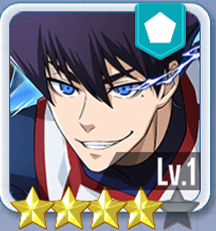
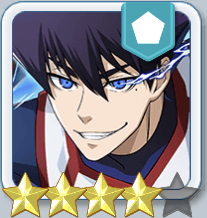
feat: 雪宮剣優【一瞬に見出す極限】の追加

diff --git a/src/data/matchSkills.js b/src/data/matchSkills.js
@@ -14223,4 +14223,116 @@ export const matchSkills = [
   "activator4": null,
   "activator5": null
 },
+{
+  "name": "超次元共演",
+  "detail": "自身がゴールを決めるとしばらくの間、味方全体のパフォーマンスが少し上昇する。（発動上限数：1回）",
+  "target1": "B033-03",
+  "target2": "B030-03",
+  "target3": null,
+  "target4": null,
+  "target5": null,
+  "activator1": "B033-03",
+  "activator2": null,
+  "activator3": null,
+  "activator4": null,
+  "activator5": null
+},
+{
+  "name": "キミ 可愛くないね",
+  "detail": "スキル発動した際の突破時からしばらくの間、マッチアップ相手のスピードが大幅に下がり、自身のクロス実行率が大幅に上昇する。（発動上限数：2回）",
+  "target1": "B033-03",
+  "target2": "B013-06",
+  "target3": null,
+  "target4": null,
+  "target5": null,
+  "activator1": "B033-03",
+  "activator2": null,
+  "activator3": null,
+  "activator4": null,
+  "activator5": null
+},
+{
+  "name": "いっくよエブリバディ",
+  "detail": "スキル発動時、しばらくの間、味方全体の突破成功率が大幅に上昇し、相手チームの突破成功率が大幅に下がる。（発動上限数：2回）",
+  "target1": "B033-03",
+  "target2": "B036-02",
+  "target3": null,
+  "target4": null,
+  "target5": null,
+  "activator1": "B033-03",
+  "activator2": null,
+  "activator3": null,
+  "activator4": null,
+  "activator5": null
+},
+{
+  "name": "恩に着る",
+  "detail": "スキル発動した際の突破時からしばらくの間、自身のスピードとシュートレンジが大幅に上昇し、相手チームで一番賢さの高い選手のシュートブロック成功率が大幅に下がる。（発動上限数：1回）",
+  "target1": "B033-03",
+  "target2": "B032-04",
+  "target3": null,
+  "target4": null,
+  "target5": null,
+  "activator1": "B033-03",
+  "activator2": null,
+  "activator3": null,
+  "activator4": null,
+  "activator5": null
+},
+{
+  "name": "理解っとるやんボケ",
+  "detail": "スキル発動時、少しの間、自身のクロス実行率が大幅に上昇し、相手チームのシュートブロック成功率が大幅に下がる。（発動上限数：2回）",
+  "target1": "B030-03",
+  "target2": "B013-06",
+  "target3": "B033-03",
+  "target4": null,
+  "target5": null,
+  "activator1": "B030-03",
+  "activator2": null,
+  "activator3": null,
+  "activator4": null,
+  "activator5": null
+},
+{
+  "name": "未曽有の計画",
+  "detail": "スキル発動時から一定時間、相手チームのシュートブロック成功率が大幅に下がり、マッチアップにおいて実力を発揮しづらくなる。（発動上限数：2回）",
+  "target1": "B013-06",
+  "target2": "B032-04",
+  "target3": "B033-03",
+  "target4": null,
+  "target5": null,
+  "activator1": "B013-06",
+  "activator2": null,
+  "activator3": null,
+  "activator4": null,
+  "activator5": null
+},
+{
+  "name": "さぁ終わりだぜ",
+  "detail": "スキル発動した際のシュートからしばらくの間、自身と自チーム内で一番キックが高い選手のシュート成功率が上昇する。さらに、試合中、自身のシュートブロック成功率が上昇する。（発動上限数：2回）",
+  "target1": "B036-02",
+  "target2": "B030-03",
+  "target3": "B033-03",
+  "target4": null,
+  "target5": null,
+  "activator1": "B036-02",
+  "activator2": null,
+  "activator3": null,
+  "activator4": null,
+  "activator5": null
+},
+{
+  "name": "そんな畏まらんでええよ",
+  "detail": "試合開始時から一定時間、味方全体のパスカット成功時にボールを奪取する確率が大幅に上昇し、マッチアップにおいて実力を発揮しやすくなる。（発動上限数：1回）",
+  "target1": "B032-04",
+  "target2": "B033-03",
+  "target3": "B036-02",
+  "target4": null,
+  "target5": null,
+  "activator1": "B032-04",
+  "activator2": null,
+  "activator3": null,
+  "activator4": null,
+  "activator5": null
+},
 ];

diff --git a/src/data/trainingSkills.js b/src/data/trainingSkills.js
@@ -139,6 +139,12 @@ const SOURCE_ROWS = [
 { "発動対象1_ID": "SP-UR004", "発動対象1_名前": "脳天カチ割るぞ", "発動対象2_ID": "SP-UR018", "発動対象2_名前": "本とメガネとエゴイスト", "効果1": "常時フィジカルアップ", "効果量1": "2000%" },
 { "発動対象1_ID": "B003-07", "発動対象1_名前": "國神錬介【正々堂々肉体勝負】", "発動対象2_ID": "SP-UR018", "発動対象2_名前": "本とメガネとエゴイスト", "効果1": "常時フィジカルアップ", "効果量1": "2000%" },
 { "発動対象1_ID": "B036-02", "発動対象1_名前": "オリヴァ・愛空【オールMAXで視える世界】", "発動対象2_ID": "SP-UR018", "発動対象2_名前": "本とメガネとエゴイスト", "効果1": "常時フィジカルアップ", "効果量1": "2000%" },
+{ "発動対象1_ID": "B038-02", "発動対象1_名前": "糸師冴【SEASIDE EGOIST】", "発動対象2_ID": "B033-03", "発動対象2_名前": "雪宮剣優【一瞬に見出す極限】", "効果1": "常時スピードアップ", "効果量1": "2000%" },
+{ "発動対象1_ID": "B004-08", "発動対象1_名前": "千切豹馬【最速の韋駄天】", "発動対象2_ID": "B021-06", "発動対象2_名前": "糸師凛【破壊者】", "発動対象3_ID": "B033-03", "発動対象3_名前": "雪宮剣優【一瞬に見出す極限】", "効果1": "常時スピードアップ", "効果量1": "3000%" },
+{ "発動対象1_ID": "B013-06", "発動対象1_名前": "馬狼照英【貪り喰らう咆哮】", "発動対象2_ID": "B033-03", "発動対象2_名前": "雪宮剣優【一瞬に見出す極限】", "効果1": "常時キックアップ", "効果量1": "2000%" },
+{ "発動対象1_ID": "B026-06", "発動対象1_名前": "士道龍聖【歓喜の”誕生”】", "発動対象2_ID": "B033-03", "発動対象2_名前": "雪宮剣優【一瞬に見出す極限】", "効果1": "常時キックアップ", "効果量1": "2000%" },
+{ "発動対象1_ID": "B018-08", "発動対象1_名前": "凪誠士郎【はじめまして日本】", "発動対象2_ID": "B021-07", "発動対象2_名前": "糸師凛【SEASIDE EGOIST】", "発動対象3_ID": "B033-03", "発動対象3_名前": "雪宮剣優【一瞬に見出す極限】", "効果1": "常時キックアップ", "効果量1": "3000%" },
+{ "発動対象1_ID": "B013-06", "発動対象1_名前": "馬狼照英【貪り喰らう咆哮】", "発動対象2_ID": "B021-07", "発動対象2_名前": "糸師凛【SEASIDE EGOIST】", "発動対象3_ID": "B033-03", "発動対象3_名前": "雪宮剣優【一瞬に見出す極限】", "効果1": "常時キックアップ", "効果量1": "3000%" },
 ];
 
 /* ================= ヘルパ ================= */

diff --git a/src/data/characterList.js b/src/data/characterList.js
@@ -89,6 +89,7 @@ export const characterList = [
 { id: 'B032-04', name: '氷織羊【X 自分にできる武器】',rarity: '4',type: '賢さ'},
 { id: 'B033-01', name: '雪宮剣優【1on1エンペラー】',rarity: '3',type: 'キック'},
 { id: 'B033-02', name: '雪宮剣優【ストリート・スタイル】',rarity: '3',type: 'キック'},
+{ id: 'B033-03', name: '雪宮剣優【一瞬に見出す極限】',rarity: '4',type: 'スピード'},
 { id: 'B034-01', name: '清羅刃【ボーダーライナー】',rarity: '3',type: '賢さ'},
 { id: 'B035-01', name: '七星虹郎【天然記念物】',rarity: '3',type: 'スピード'},
 { id: 'B035-02', name: '七星虹郎【X トレッキング・トレーニング】',rarity: '4',type: 'テクニック'},
